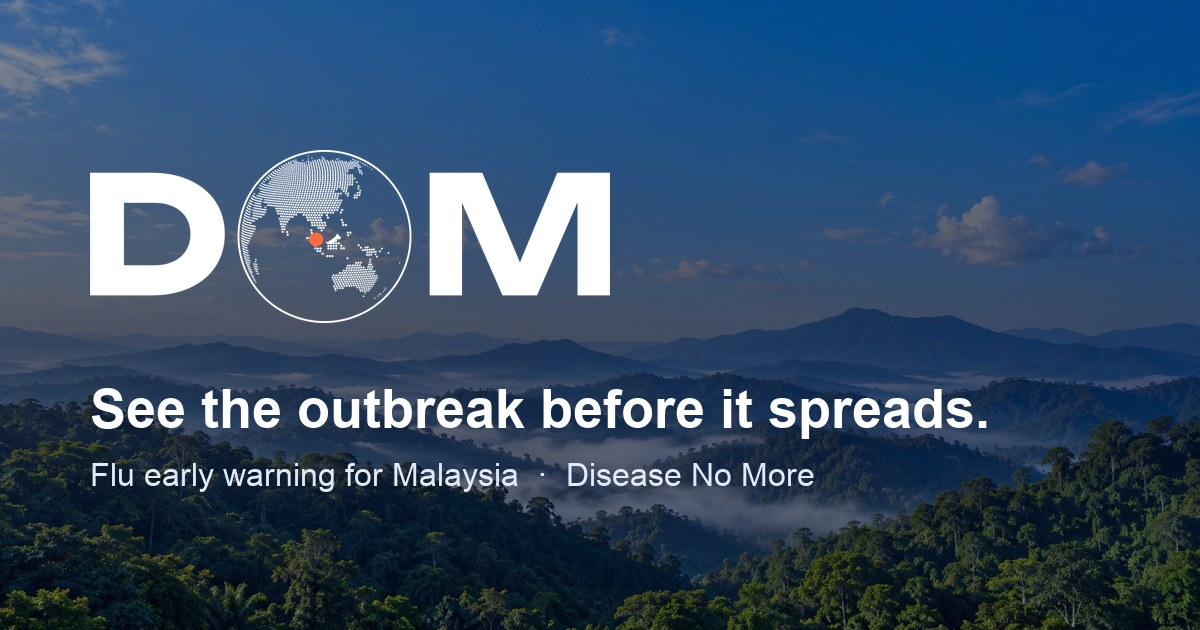
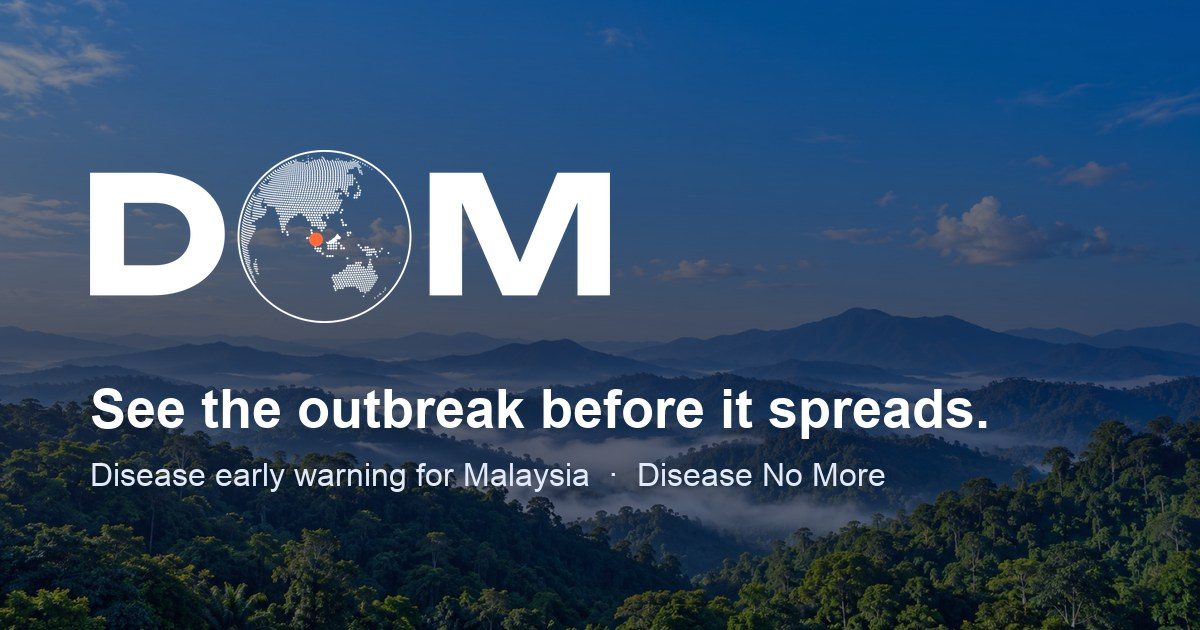
Full plan opens again (its handler had been swallowed by a comment at 06:57); landing and link preview say Disease early warning

Changed region(s): [[0.0617, 0.7238, 0.74, 0.7841]]

diff --git a/site/dashboard.html b/site/dashboard.html
@@ -4,11 +4,11 @@
 <meta charset="utf-8">
 <meta name="viewport" content="width=device-width, initial-scale=1">
 <title>DOM · Control room</title>
-<meta name="description" content="Flu early warning for Malaysia: the step today, what to do first, and how often that warning has been right.">
+<meta name="description" content="Disease early warning for Malaysia: the step today, what to do first, and how often that warning has been right.">
 <meta property="og:type" content="website">
 <meta property="og:site_name" content="DOM">
 <meta property="og:title" content="DOM · Disease No More">
-<meta property="og:description" content="Flu early warning for Malaysia. See the outbreak before it spreads.">
+<meta property="og:description" content="Disease early warning for Malaysia. See the outbreak before it spreads.">
 <meta property="og:image" content="https://dom-control-room.vercel.app/assets/img/og.jpg">
 <meta property="og:image:width" content="1200">
 <meta property="og:image:height" content="630">
@@ -18,12 +18,12 @@
 <link rel="preconnect" href="https://fonts.googleapis.com">
 <link href="https://fonts.googleapis.com/css2?family=Unbounded:wght@700&display=swap" rel="stylesheet" media="print" onload="this.media='all'">
 <link rel="stylesheet" href="vendor/leaflet.min.css">
-<link rel="stylesheet" href="assets/room.css?v=1791673356">
-<link rel="stylesheet" href="assets/pages/signal.css?v=1791673356">
-<link rel="stylesheet" href="assets/pages/trust.css?v=1791673356">
-<link rel="stylesheet" href="assets/pages/where.css?v=1791673356">
-<link rel="stylesheet" href="assets/pages/rest.css?v=1791673356">
-<link rel="stylesheet" href="assets/pages/ask.css?v=1791673356">
+<link rel="stylesheet" href="assets/room.css?v=1791674085">
+<link rel="stylesheet" href="assets/pages/signal.css?v=1791674085">
+<link rel="stylesheet" href="assets/pages/trust.css?v=1791674085">
+<link rel="stylesheet" href="assets/pages/where.css?v=1791674085">
+<link rel="stylesheet" href="assets/pages/rest.css?v=1791674085">
+<link rel="stylesheet" href="assets/pages/ask.css?v=1791674085">
 <script>try { var d = document.documentElement, q = new URLSearchParams(location.search);
   if (sessionStorage.getItem("dom-dive")) { sessionStorage.removeItem("dom-dive"); d.classList.add("arrive"); }
   d.dataset.nav = "rail"; } catch (e) {}</script>
@@ -356,15 +356,15 @@
 <script src="vendor/leaflet.min.js"></script>
 <script src="vendor/leaflet-heat.js"></script>
 <script src="vendor/xlsx.full.min.js"></script>
-<script src="assets/scrub.js?v=1791673356"></script>
+<script src="assets/scrub.js?v=1791674085"></script>
 <script src="assets/model.js"></script>
 <script src="assets/app.js"></script>
-<script src="assets/room.js?v=1791673356"></script>
-<script src="assets/pages/signal.js?v=1791673356"></script>
-<script src="assets/pages/trust.js?v=1791673356"></script>
-<script src="assets/pages/where.js?v=1791673356"></script>
-<script src="assets/pages/rest.js?v=1791673356"></script>
-<script src="assets/pages/ask.js?v=1791673356"></script>
-<script src="assets/pages/planai.js?v=1791673356"></script>
+<script src="assets/room.js?v=1791674085"></script>
+<script src="assets/pages/signal.js?v=1791674085"></script>
+<script src="assets/pages/trust.js?v=1791674085"></script>
+<script src="assets/pages/where.js?v=1791674085"></script>
+<script src="assets/pages/rest.js?v=1791674085"></script>
+<script src="assets/pages/ask.js?v=1791674085"></script>
+<script src="assets/pages/planai.js?v=1791674085"></script>
 </body>
 </html>

diff --git a/site/assets/room.js b/site/assets/room.js
@@ -182,7 +182,8 @@
   $("rpLeave").onclick = () => { location.href = "dashboard.html#/now"; };
   // "Why?" opens the sheet at the reasons; "See the plan" opens the same sheet at the actions and the plan
   const openSheet = (sel) => { const sh = $("sheet"); sh.hidden = false; sh.scrollTop = 0; const el = sel && sh.querySelector(sel); if (el) sh.scrollTop = Math.max(0, el.getBoundingClientRect().top - sh.getBoundingClientRect().top - 54); $("sheetX").focus({ preventScroll: true }); };
-  $("whyBtn").onclick = () => { openSheet(); setTimeout(() => { const h = [...document.querySelectorAll("#sheet h3")].find((x) => x.offsetParent); if (h) h.scrollIntoView({ block: "start", behavior: "smooth" }); }, 250); };   // "Why?" lands on the reasons, "Full plan" on the task list $("planBtn").onclick = () => openSheet(".planbox");   // "Full plan" lands on the task list: what, who, by when
+  $("whyBtn").onclick = () => { openSheet(); setTimeout(() => { const h = [...document.querySelectorAll("#sheet h3")].find((x) => x.offsetParent); if (h) h.scrollIntoView({ block: "start", behavior: "smooth" }); }, 250); };   // "Why?" lands on the reasons
+  $("planBtn").onclick = () => openSheet(".planbox");   // "Full plan" lands on the task list: what, who, by when
   $("sheetX").onclick = () => { $("sheet").hidden = true; };
   // the Telegram alert is one press from the first screen: it opens the plan at the send line
   if ($("tgBtn")) $("tgBtn").onclick = () => { $("planBtn").click(); setTimeout(() => { const el = document.querySelector("#sheet .tg, #sheet [class*=tg]"); if (el) el.scrollIntoView({ block: "center", behavior: "smooth" }); }, 250); };

diff --git a/site/landing.html b/site/landing.html
@@ -30,11 +30,11 @@
 <link rel="prefetch" href="assets/img/ic-track.png">
 <link rel="prefetch" href="assets/img/ic-stakes.png">
 <link rel="prefetch" href="assets/img/ic-more.png">
-<meta name="description" content="Flu early warning for Malaysia: the step today, what to do first, and how often that warning has been right.">
+<meta name="description" content="Disease early warning for Malaysia: the step today, what to do first, and how often that warning has been right.">
 <meta property="og:type" content="website">
 <meta property="og:site_name" content="DOM">
 <meta property="og:title" content="DOM · Disease No More">
-<meta property="og:description" content="Flu early warning for Malaysia. See the outbreak before it spreads.">
+<meta property="og:description" content="Disease early warning for Malaysia. See the outbreak before it spreads.">
 <meta property="og:image" content="https://dom-control-room.vercel.app/assets/img/og.jpg">
 <meta property="og:image:width" content="1200">
 <meta property="og:image:height" content="630">
@@ -66,7 +66,7 @@
   <section class="s s1">
     <div class="copy">
       <h1>See the <span class="mark">outbreak</span><br>before it <span class="spread">spreads.</span></h1>
-      <p>Flu early warning for Malaysia.</p>
+      <p>Disease early warning for Malaysia.</p>
       <button class="btn" data-enter><span class="arr" aria-hidden="true">→</span><span class="lab">Open the control room</span><span class="dot" aria-hidden="true"></span></button>
     </div>
     <div id="k1" class="slot" aria-hidden="true"></div>

diff --git a/ui/make_dashboard.py b/ui/make_dashboard.py
@@ -45,11 +45,11 @@ html = f'''<!doctype html>
 <meta charset="utf-8">
 <meta name="viewport" content="width=device-width, initial-scale=1">
 <title>DOM · Control room</title>
-<meta name="description" content="Flu early warning for Malaysia: the step today, what to do first, and how often that warning has been right.">
+<meta name="description" content="Disease early warning for Malaysia: the step today, what to do first, and how often that warning has been right.">
 <meta property="og:type" content="website">
 <meta property="og:site_name" content="DOM">
 <meta property="og:title" content="DOM · Disease No More">
-<meta property="og:description" content="Flu early warning for Malaysia. See the outbreak before it spreads.">
+<meta property="og:description" content="Disease early warning for Malaysia. See the outbreak before it spreads.">
 <meta property="og:image" content="https://dom-control-room.vercel.app/assets/img/og.jpg">
 <meta property="og:image:width" content="1200">
 <meta property="og:image:height" content="630">
